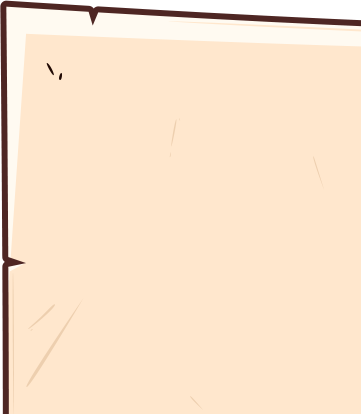
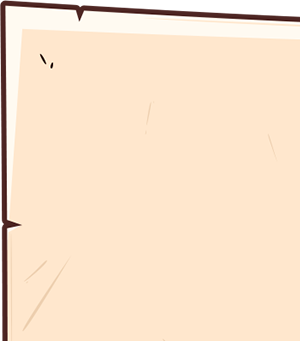
Making window layout

diff --git a/src/components/styled/Window.js b/src/components/styled/Window.js
@@ -4,16 +4,27 @@ import styled from '@emotion/styled'
 export default function Window({ width, height, children }) {
     return (
         <Container>
-            <Content width={width} height={height}>
-                {children}
-            </Content>
+            <Background width={width} height={height}>
+                <Background0 width={width} height={height} />
+                <Background1 />
+                <Background2 />
+                <Background3 />
+                <Background4 />
+                <Corners />
+                <Content>{children}</Content>
+            </Background>
         </Container>
     )
 }
 
+const WIDTH = 600
+const HEIGHT = 682
+
 const Container = styled.div`
     width: 100%;
     height: 100%;
+    top: 0;
+    left: 0;
     display: flex;
     align-items: center;
     justify-content: center;
@@ -21,11 +32,76 @@ const Container = styled.div`
     pointer-events: none;
 `
 
-const Content = styled.div`
+const Background = styled.div`
     width: ${p => p.width};
     height: ${p => p.height};
-    background-image: url('assets/window-left-top.png');
-    background-repeat: no-repeat;
-    /* background-size: 100% 100%; */
+    position: relative;
     pointer-events: all;
+`
+
+const Background1 = styled.div`
+    width: calc(100% - ${WIDTH}px);
+    height: ${HEIGHT / 2}px;
+    left: ${WIDTH / 2}px;
+    top: 0;
+    position: absolute;
+    background-image: url('assets/window-top.png');
+    background-repeat: repeat-x;
+`
+const Background2 = styled.div`
+    width: calc(100% - ${WIDTH}px);
+    height: ${HEIGHT / 2}px;
+    left: ${WIDTH / 2}px;
+    bottom: 0;
+    position: absolute;
+    background-image: url('assets/window-bottom.png');
+    background-repeat: repeat-x;
+`
+
+const Background3 = styled.div`
+    width: ${WIDTH / 2}px;
+    height: calc(100% - ${HEIGHT}px);
+    left: 0;
+    bottom: ${HEIGHT / 2}px;
+    position: absolute;
+    background-image: url('assets/window-left.png');
+    background-repeat: repeat-y;
+`
+
+const Background4 = styled.div`
+    width: ${WIDTH / 2}px;
+    height: calc(100% - ${HEIGHT}px);
+    right: 0;
+    bottom: ${HEIGHT / 2}px;
+    position: absolute;
+    background-image: url('assets/window-right.png');
+    background-repeat: repeat-y;
+`
+
+const Background0 = styled.div`
+    width: calc(${p => p.width} - 80px);
+    height: calc(${p => p.height} - 80px);
+    top: 40px;
+    left: 40px;
+    position: absolute;
+    background-color: #ffe7cd;
+`
+
+const Corners = styled.div`
+    width: 100%;
+    height: 100%;
+    position: relative;
+    background-image: url('assets/window-left-top.png'),
+        url('assets/window-right-top.png'), url('assets/window-left-bottom.png'),
+        url('assets/window-right-bottom.png');
+    background-position: left top, right top, left bottom, right bottom;
+    background-repeat: no-repeat, no-repeat, no-repeat, no-repeat;
+`
+
+const Content = styled.div`
+    width: 100%;
+    height: 100%;
+    position: absolute;
+    top: 0;
+    bottom: 0;
 `
